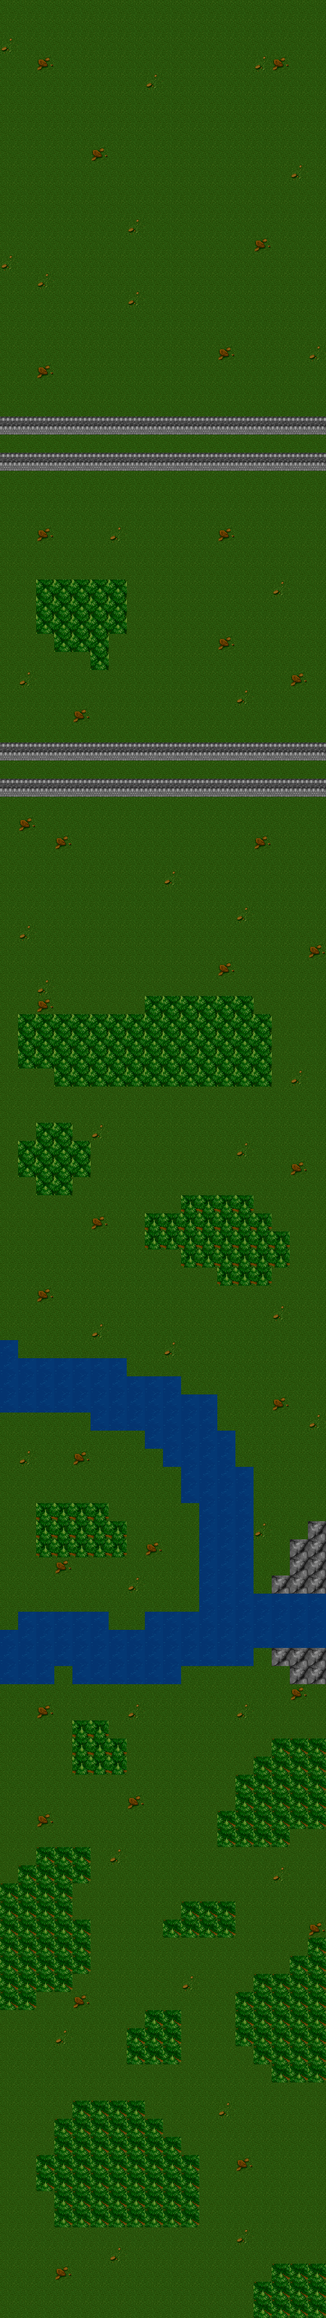
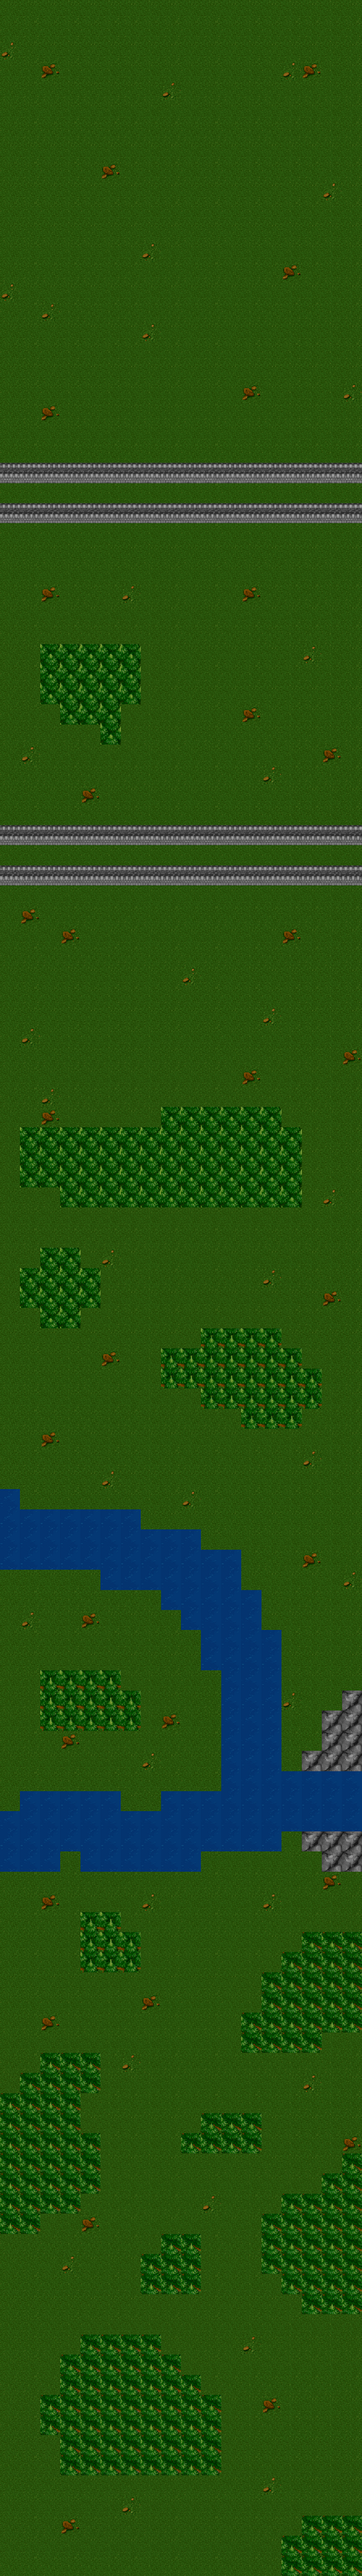
Changement taille écran, inclusion du menu

diff --git a/PrototypeDev/App/game.js b/PrototypeDev/App/game.js
@@ -15,8 +15,8 @@
  */
 
 /**
- * @class Controller of the game
- * @param {Game} game Accessor of the Phaser's game object
+ * @class Game
+ * @param {Game} game accessor of the Phaser's game object
  */
 BasicGame.Game = function (game) {
 	var level;
@@ -25,6 +25,7 @@ BasicGame.Game = function (game) {
 	
 	var score;
 	var scoreText;
+	var playerLifeText;
 
 	var nextRandomEnnemySpawn;
 };
@@ -38,6 +39,9 @@ BasicGame.Game.prototype = {
 	create: function () {
   		this.game.renderer.renderSession.roundPixels = true;
 		this.physics.startSystem(Phaser.Physics.ARCADE);
+
+		var menu = this.game.input.keyboard.addKey(Phaser.Keyboard.P);
+		menu.onDown.add(this.openMenu, this);
 	
 		level = new Level(this.game);
 		
@@ -62,9 +66,10 @@ BasicGame.Game.prototype = {
 		//new Structure(game, gEnnemies, 300, 200, 'building1');
 		
 		score=0;
-		scoreText = this.add.text(10, 720-40, 'score: 0', 
+		scoreText = this.add.text(10, 600-40, 'score : 0', 
 			{ fontSize: '32px', fill: '#000' });
-	
+		playerLifeText = this.add.text(800-100, 600-40, 'life : 3', 
+			{ fontSize: '32px', fill: '#000' });
   	},
 
 	/**
@@ -72,7 +77,8 @@ BasicGame.Game.prototype = {
 	 * @public
 	 */
 	update: function () {
-		this.physics.arcade.overlap(player.weapons, gEnnemies, this.collisionHandler, null, this)
+		this.physics.arcade.overlap(player.weapons, gEnnemies, this.bulletCollisionHandler, null, this)
+		this.physics.arcade.overlap(player, gEnnemies, this.playerCollisionHandler, null, this)
 
 		//player.update();
 		
@@ -81,6 +87,8 @@ BasicGame.Game.prototype = {
 			new Ennemy(this, gEnnemies, 60, 200, 'enemy1');
 			nextRandomEnnemySpawn = this.game.time.time + 5000;
 		}
+
+
 	},
 
 	/**
@@ -88,12 +96,24 @@ BasicGame.Game.prototype = {
    	 * @param  {Bullet} bullet The bullet to test 
    	 * @param  {Ennemy} ennemy The ennemy to test
    	 */
-	collisionHandler: function (bullet, ennemy) {
+	bulletCollisionHandler: function (bullet, ennemy) {
 		bullet.kill();
 		ennemy.kill();
 		
 		score += 10;
-		scoreText.text = 'Score: ' + score;
+		scoreText.text = 'Score : ' + score;
+	},
+
+	/**
+   	 * Handle collisions between a bullet and an ennemy
+   	 * @param  {Bullet} bullet The bullet to test 
+   	 * @param  {Ennemy} ennemy The ennemy to test
+   	 */
+	playerCollisionHandler: function (player, ennemy) {
+		player.takeDamage();
+		ennemy.kill();
+		
+		playerLifeText.text = 'life : ' + player.life;
 	},
 
 	/**
@@ -101,9 +121,10 @@ BasicGame.Game.prototype = {
 	 * @public
 	 */
 	render: function () {
-		this.game.debug.cameraInfo(this.camera, 32, 32);
-		this.game.debug.text("Current time" + this.game.time.time, 30, 120)
-		//this.game.debug.body(player.object);
+	},
+
+	openMenu: function () {
+		this.state.start('MainMenu');
 	},
 
 	quitGame: function (pointer) {

diff --git a/PrototypeDev/App/mainMenu.js b/PrototypeDev/App/mainMenu.js
@@ -1,7 +1,26 @@
+/*
+ * ENSICAEN
+ * 6 Boulevard Marechal Juin 
+ * F-14050 Caen Cedex 
+ * 
+ * This file is owned by ENSICAEN students.
+ * No portion of this document may be reproduced, copied
+ * or revised without written permission of the authors.
+*/
 
+/**
+ * @fileOverview Main menu
+ * @author Bruyère Julien
+ * @version 0.1
+ */
+
+/**
+ * @class MainMenu
+ * @param {Game} game accessor of the Phaser's game object
+ */
 BasicGame.MainMenu = function (game) {
 
-  this.music = null;
+  //this.music = null;
   this.playButton = null;
 
 };
@@ -10,36 +29,25 @@ BasicGame.MainMenu.prototype = {
 
   create: function () {
 
-    //  We've already preloaded our assets, so let's kick right into the Main Menu itself.
-    //  Here all we're doing is playing some music and adding a picture and button
-    //  Naturally I expect you to do something significantly better :)
+    this.add.sprite(0, 0, 'menuBackground');
 
-    this.add.sprite(0, 0, 'titlepage');
-
-    this.loadingText = this.add.text(this.game.width / 2, this.game.height / 2 + 80, "Press Z or tap/click game to start", { font: "20px monospace", fill: "#fff" });
+    this.loadingText = this.add.text(this.game.width / 2, this.game.height / 2 + 80, "Press A or tap/click game to start", { font: "20px monospace", fill: "#fff" });
     this.loadingText.anchor.setTo(0.5, 0.5);
-    this.add.text(this.game.width / 2, this.game.height - 90, "image assets Copyright (c) 2002 Ari Feldman", { font: "12px monospace", fill: "#fff", align: "center"}).anchor.setTo(0.5, 0.5);
-    this.add.text(this.game.width / 2, this.game.height - 75, "sound assets Copyright (c) 2012 - 2013 Devin Watson", { font: "12px monospace", fill: "#fff", align: "center"}).anchor.setTo(0.5, 0.5);
+    this.add.text(this.game.width / 2, this.game.height - 90, "developped by Bruyère Julien - Zerathe Guilhem", { font: "12px monospace", fill: "#fff", align: "center"}).anchor.setTo(0.5, 0.5);
+    this.add.text(this.game.width / 2, this.game.height - 75, "for Malkyrs Studio", { font: "12px monospace", fill: "#fff", align: "center"}).anchor.setTo(0.5, 0.5);
 
   },
 
   update: function () {
 
-    if (this.input.keyboard.isDown(Phaser.Keyboard.Z) || this.input.activePointer.isDown) {
+    if (this.input.keyboard.isDown(Phaser.Keyboard.A) || this.input.activePointer.isDown) {
       this.startGame();
     }
-    //  Do some nice funky main menu effect here
 
   },
 
   startGame: function (pointer) {
-
-    //  Ok, the Play Button has been clicked or touched, so let's stop the music (otherwise it'll carry on playing)
-    // this.music.stop();
-
-    //  And start the actual game
     this.state.start('Game');
-
   }
 
 };

diff --git a/PrototypeDev/App/preloader.js b/PrototypeDev/App/preloader.js
@@ -1,4 +1,23 @@
+/*
+ * ENSICAEN
+ * 6 Boulevard Marechal Juin 
+ * F-14050 Caen Cedex 
+ * 
+ * This file is owned by ENSICAEN students.
+ * No portion of this document may be reproduced, copied
+ * or revised without written permission of the authors.
+*/
 
+/**
+ * @fileOverview Preloader sequence
+ * @author Bruyère Julien
+ * @version 0.2
+ */
+
+/**
+ * @class Preloader
+ * @param {Game} game accessor of the Phaser's game object
+ */
 BasicGame.Preloader = function (game) {
 
 };
@@ -6,27 +25,23 @@ BasicGame.Preloader = function (game) {
 BasicGame.Preloader.prototype = {
 
   preload: function () {
+    var dir = 'App/Assets/';
 
-    //  Here we load the rest of the assets our game needs.
-    this.load.image('player', 'App/Assets/player.png');
-    this.load.image('background', 'App/Assets/Background/niveau1.png');
+    this.load.image('menuBackground', dir+'mainMenuBackground.png');
+    this.load.image('player', dir+'player.png');
+    this.load.image('background', dir+'Background/niveau1.png');
 
-    this.load.spritesheet('enemy1', 'App/Assets/Enemies/enemy1.png', 89, 82, 4);
-    this.load.spritesheet('enemy2', 'App/Assets/Enemies/enemy2.png', 59, 63, 2);
-    this.load.spritesheet('enemy3', 'App/Assets/Enemies/enemy3.png', 76, 75, 2);
-    this.load.image('building1', 'App/Assets/Enemies/building1.png');
+    this.load.spritesheet('enemy1', dir+'Enemies/enemy1.png', 89, 82, 4);
+    this.load.spritesheet('enemy2', dir+'Enemies/enemy2.png', 59, 63, 2);
+    this.load.spritesheet('enemy3', dir+'Enemies/enemy3.png', 76, 75, 2);
+    this.load.image('building1', dir+'Enemies/building1.png');
     
     for (var i = 1; i <= 11; i++)
     {
-        this.load.image('bullet' + i, 'App/Assets/Effects/bullet' + i + '.png');
+        this.load.image('bullet' + i, dir+'Effects/bullet' + i + '.png');
     }
       
-    this.load.spritesheet('fireball','App/Assets/Effects/fireballs.png',28,26);
-
-  
-    //this.load.spritesheet('explosion', 'App/Assets/Effects/explosion.png');
-    //this.load.audio('titleMusic', ['audio/main_menu.mp3']);
-    //  + lots of other required assets here
+    this.load.spritesheet('fireball',dir+'Effects/fireballs.png',28,26);
 
   },
 
@@ -47,7 +62,7 @@ BasicGame.Preloader.prototype = {
     //if (this.cache.isSoundDecoded('titleMusic') && this.ready == false)
     //{
     //  this.ready = true;
-      this.state.start('Game');
+      this.state.start('MainMenu');
     //}
 
   }

diff --git a/PrototypeDev/App/app.js b/PrototypeDev/App/app.js
@@ -1,8 +1,24 @@
+/*
+ * ENSICAEN
+ * 6 Boulevard Marechal Juin 
+ * F-14050 Caen Cedex 
+ * 
+ * This file is owned by ENSICAEN students.
+ * No portion of this document may be reproduced, copied
+ * or revised without written permission of the authors.
+*/
+
+/**
+ * @fileOverview Initialize the basis of the game
+ * @author Bruyère Julien
+ * @version 0.2
+ */
+
 window.onload = function() {
 
   //  Create your Phaser game and inject it into the gameContainer div.
   //  We did it in a window.onload event, but you can do it anywhere (requireJS load, anonymous function, jQuery dom ready, - whatever floats your boat)
-  var game = new Phaser.Game(405, 720, Phaser.AUTO, 'gameContainer');
+  var game = new Phaser.Game(800, 600, Phaser.AUTO, 'gameContainer');
 
   //  Add the States your game has.
   //  You don't have to do this in the html, it could be done in your Boot state too, but for simplicity I'll keep it here.

diff --git a/PrototypeDev/App/GameElements/player.js b/PrototypeDev/App/GameElements/player.js
@@ -5,7 +5,8 @@ Player = function(game) {
 	this.texture.baseTexture.scaleMode = PIXI.scaleModes.NEAREST;
 
 	// Physic
-	this.speed = 200;
+	this.speed = 300;
+	this.life = 3;
 
 	game.physics.arcade.enable(this);
 	this.anchor.setTo(0.5, 0.5);
@@ -58,15 +59,19 @@ Player.prototype.update = function() {
 	}
 	
 	if (game.input.activePointer.isDown &&
-		game.physics.arcade.distanceToPointer(this)>15) 
+		game.physics.arcade.distanceToPointer(this)>5) 
 	{
-		game.physics.arcade.moveToPointer(this, this.speed);
+		game.physics.arcade.moveToPointer(this, this.speed+20);
 	}
 
 	if (game.input.keyboard.isDown(Phaser.Keyboard.A))
 	{
 		this.weapons[this.weaponLevel].fire(this);
 	}
+};
+
+Player.prototype.takeDamage = function() {
+	this.life--;
 };
 	
 Player.prototype.launchBomb = function() {

diff --git a/PrototypeDev/App/boot.js b/PrototypeDev/App/boot.js
@@ -1,6 +1,29 @@
+/*
+ * ENSICAEN
+ * 6 Boulevard Marechal Juin 
+ * F-14050 Caen Cedex 
+ * 
+ * This file is owned by ENSICAEN students.
+ * No portion of this document may be reproduced, copied
+ * or revised without written permission of the authors.
+*/
+
+/**
+ * @fileOverview Boot sequence
+ * @author Bruyère Julien
+ * @version 0.2
+ */
+
+/**
+ * @class BasicGame
+ */
 var BasicGame = {
 };
 
+/**
+ * @class Boot
+ * @param {Game} game accessor of the Phaser's game object
+ */
 BasicGame.Boot = function (game) {
 
 };

diff --git a/PrototypeDev/App/GameElements/level.js b/PrototypeDev/App/GameElements/level.js
@@ -1,7 +1,7 @@
 Level = function(game) {
 	this.game = game;
 
-	Phaser.TileSprite.call(this, game, 0, 0, 640, 1440, 'background');
+	Phaser.TileSprite.call(this, game, 0, 0, 800, 5688, 'background');
 
 	this.autoScroll(0, 50);
 	game.add.existing(this);
